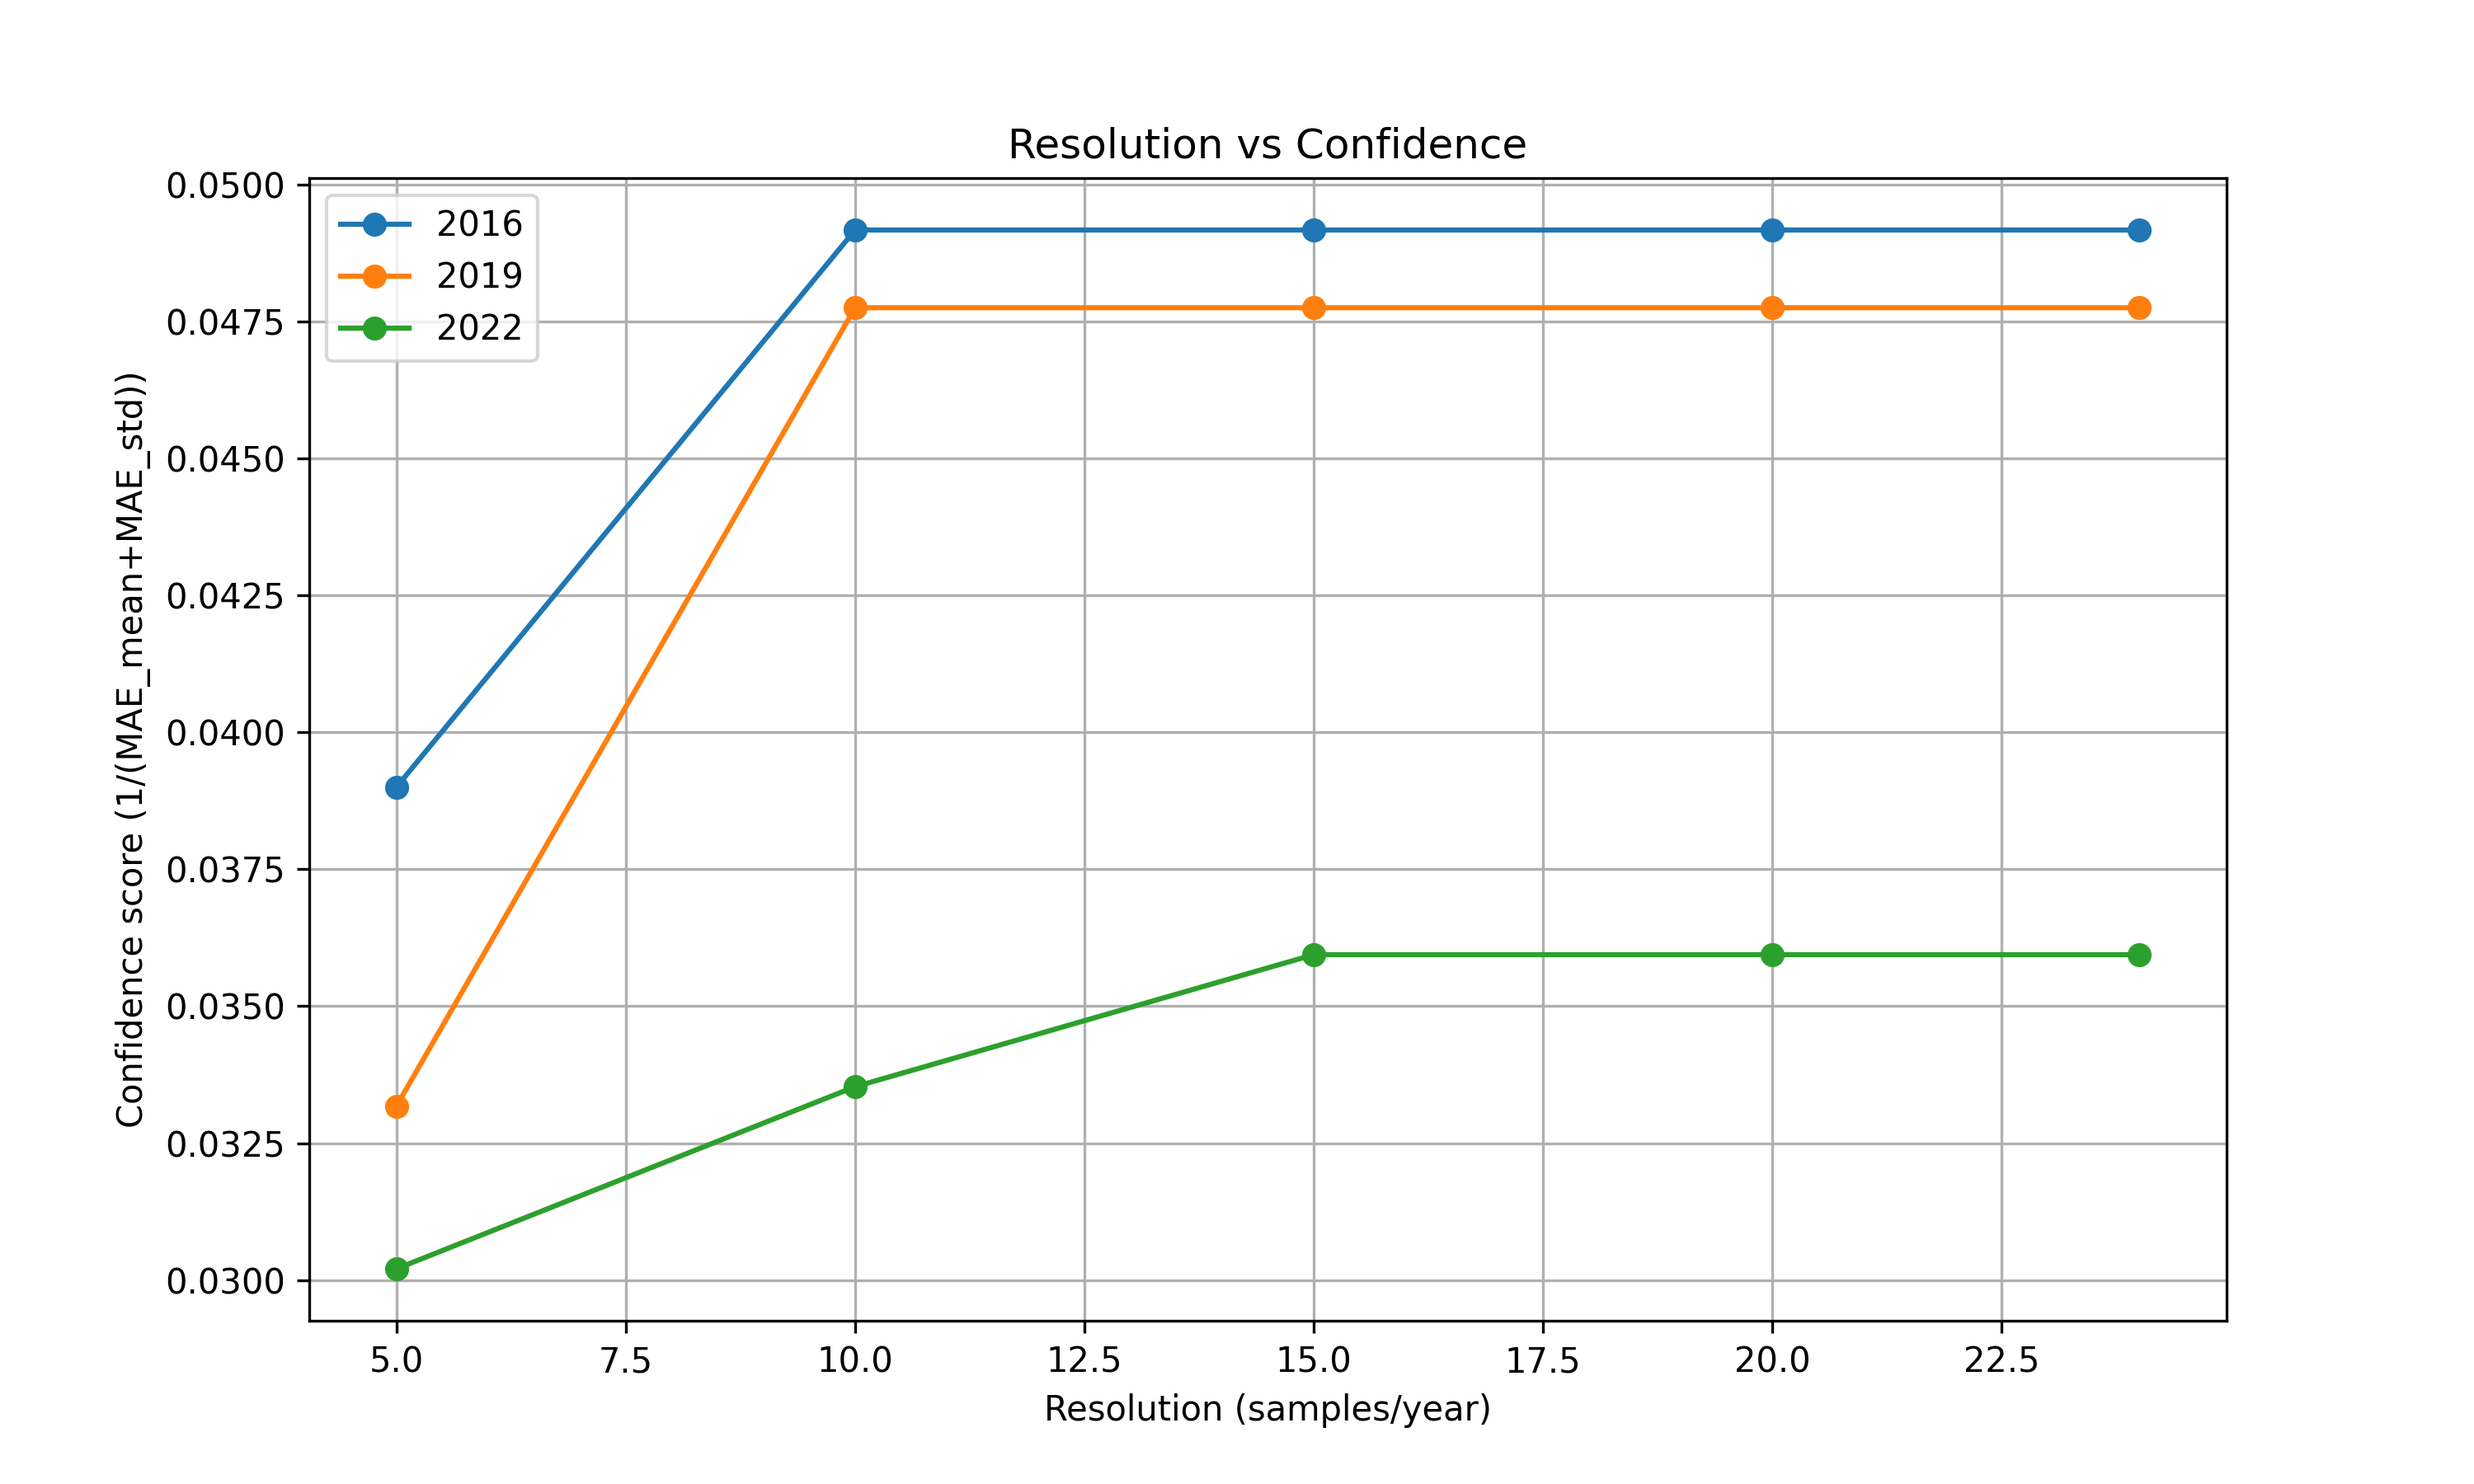
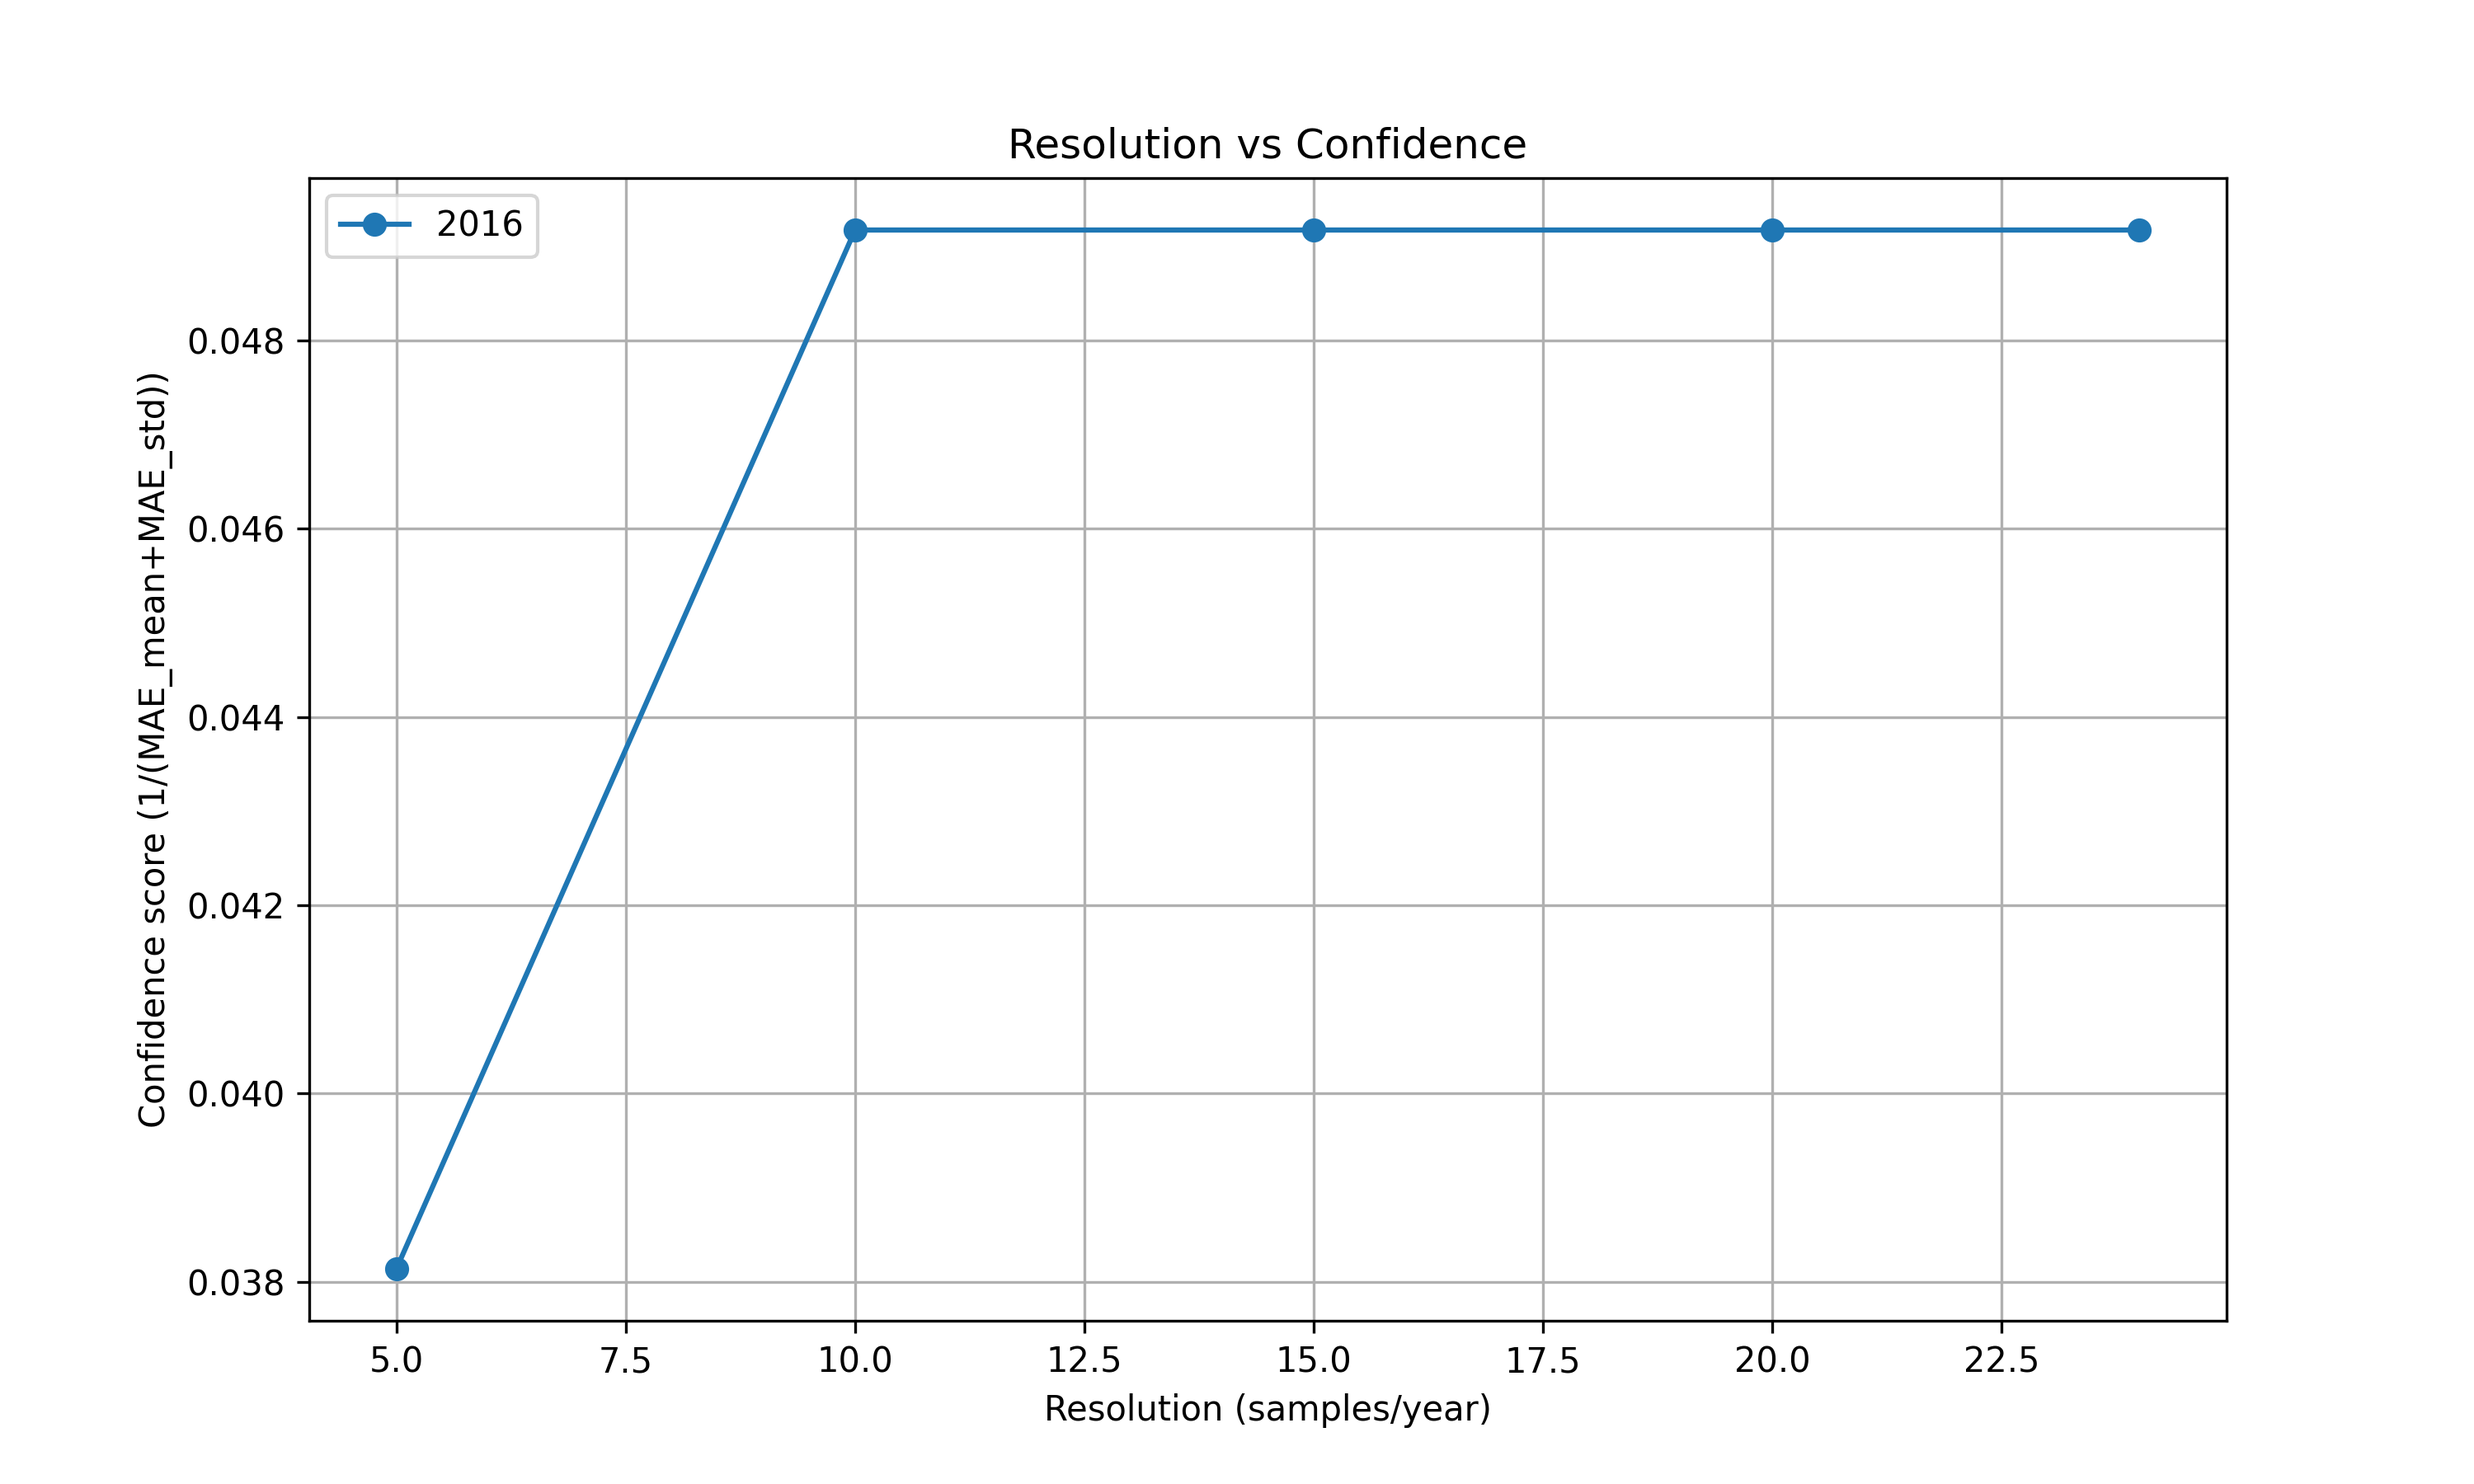
Q3_final

diff --git a/25NKUMCM-C/Q3.py b/25NKUMCM-C/Q3.py
@@ -304,20 +304,14 @@ if __name__ == '__main__':
     
     # 分辨率参数设置
     resolutions = [5, 10, 15, 20, 24]
-    target_years = [2016, 2019, 2022]
-    n_iter = 30  # 蒙特卡洛迭代次数
+    target_years = [2016]
+    n_iter = 50  # 蒙特卡洛迭代次数
     
     confidence_records = {year: [] for year in target_years}
     resolution_results = {}
     
     # 获取全局模型参数
     global_params = [A_fit, K_fit, k_fit, x0_fit]
-    
-    
-    
-    # 设置研究参数
-    target_years = [2016, 2019, 2022]
-    n_iter = 30
     
     # 执行变量数量研究
     var_impact_results = study_variable_impact(
@@ -355,10 +349,6 @@ if __name__ == '__main__':
     for year in target_years:
         conf_values = confidence_data[year]
         max_idx = np.argmax(conf_values)
-        plt.annotate(f'最优: {num_vars_list[max_idx]}变量',
-                     xy=(num_vars_list[max_idx], conf_values[max_idx]),
-                     xytext=(num_vars_list[max_idx]+0.5, conf_values[max_idx]-0.05),
-                     arrowprops=dict(arrowstyle='->', color='black'))
     
     plt.tight_layout()
     plt.savefig('variable_count_vs_confidence.png', dpi=300)
